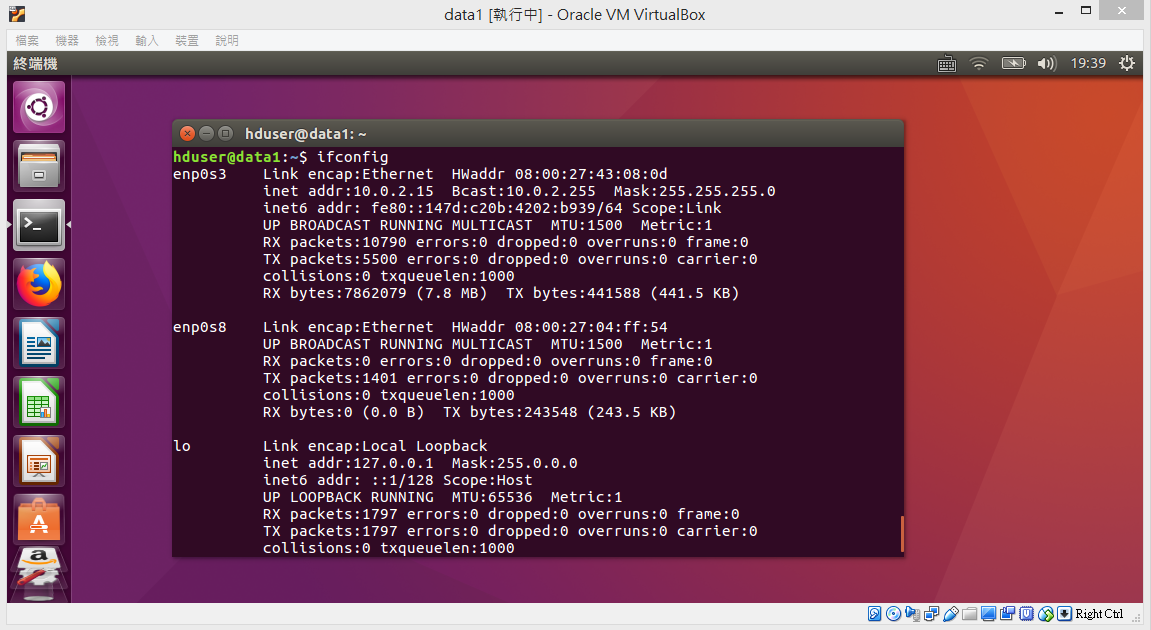
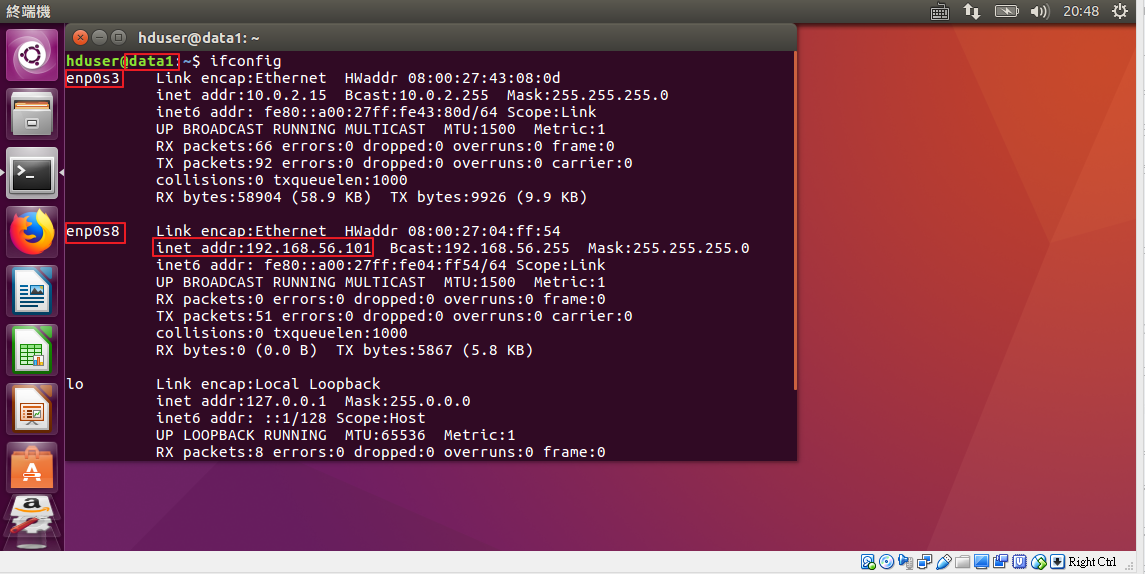
modify readme content

diff --git a/Hadoop/04-HadoopMultiNodeCluster/README.md b/Hadoop/04-HadoopMultiNodeCluster/README.md
@@ -90,9 +90,9 @@ sudo gedit /etc/network/interfaces
 
 * 執行完指令會開啟 interfaces 檔案，輸入下圖紅框內容，然後儲存，離開
   * 設定介面卡 1 (上方紅框)
-    * 設定為 "NAT 介面卡"，可以透過 Host 主機連結至外部網路，設定為 eth0，並且設定 dhcp 自動取得 ip 位址
+    * 設定為 "NAT 介面卡"，可以透過 Host 主機連結至外部網路，設定為 enp0s3，並且設定 dhcp 自動取得 ip 位址
   * 設定介面卡 2 (下方紅框)
-    * 設定為 "內部網路介面卡"，用於建立內部網路，內部網路連結虛擬主機(master、data1、data2、data3) 與 Host 主機。設定為 eth1，並且設定 static 指定固定 ip 位址
+    * 設定為 "內部網路介面卡"，用於建立內部網路，內部網路連結虛擬主機(master、data1、data2、data3) 與 Host 主機。設定為 enp0s8，並且設定 static 指定固定 ip 位址
 
 ![](Image/Image9.png)
 

diff --git a/Hadoop/README.md b/Hadoop/README.md
@@ -7,3 +7,10 @@
 [Ubuntu Linux](https://github.com/machineCYC/EnvironmentSetting/tree/master/Hadoop/02-UbuntuLinux)
 
 [Hadoop Single Node Cluster](https://github.com/machineCYC/EnvironmentSetting/tree/master/Hadoop/03-HadoopSingleNodeCluster)
+
+[Hadoop Multi Node Cluster](https://github.com/machineCYC/EnvironmentSetting/tree/master/Hadoop/04-HadoopMultiNodeCluster)
+
+
+## Reference
+
+[Python+Spark2.0+Hsdoop 機器學習與大數據分析](http://pythonsparkhadoop.blogspot.tw/)
